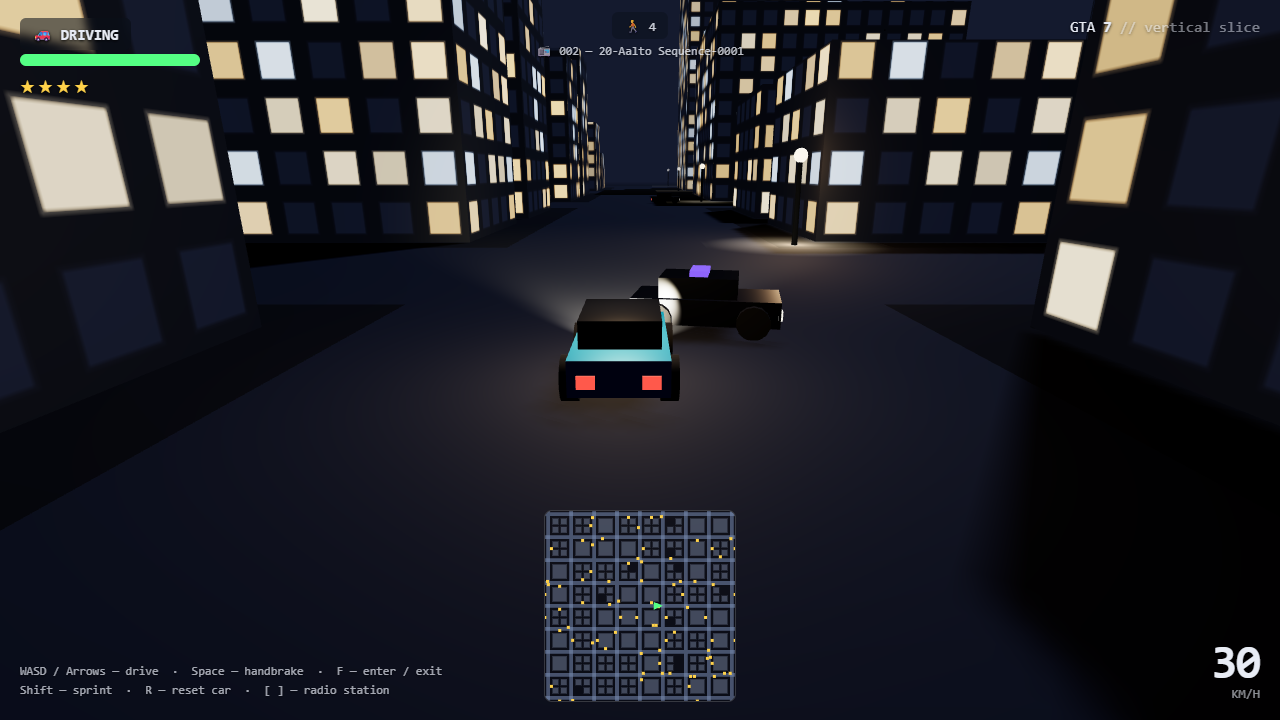
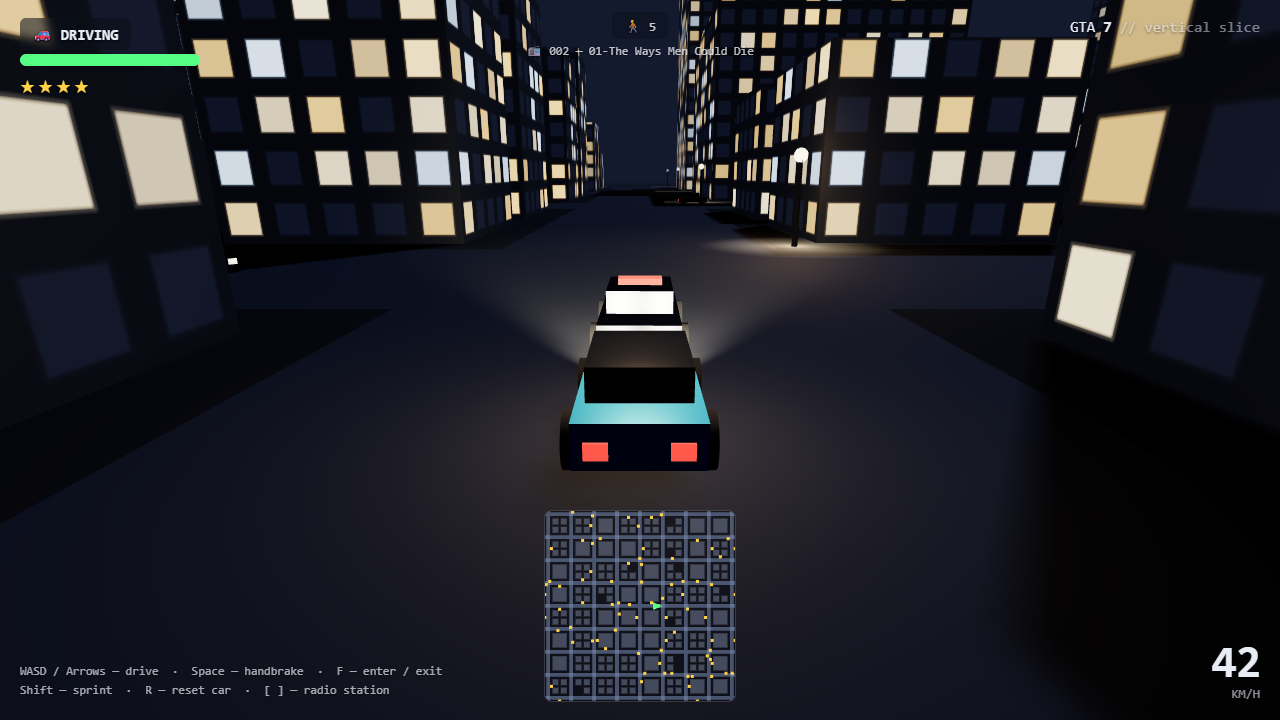
Smarter police (steering behaviors) and pedestrians that flee on foot
Police pursuit reworked from naive straight-line seek into blended Reynolds
steering: interception (lead the player via leadTime, unit-tested), separation
(fan out instead of stacking/shoving), and look-ahead obstacle avoidance (probe
ahead, steer along the wall normal via resolveCircle) so they stop grinding
buildings. They now intercept and surround instead of single-filing. Based on a
researched punch-list (Reynolds steering + GTA wanted model).

Pedestrians panic when the on-foot player gets within FEAR_RADIUS: they turn
and bolt away at a run and tremble (render-only jitter). Passed null while
driving so it's an on-foot-only reaction.

e2e: police fan-out distance + a pedestrian fleeing when approached. 59 unit +
13 interaction + 5 touch checks green.

diff --git a/src/systems/Vehicles.ts b/src/systems/Vehicles.ts
@@ -1,7 +1,7 @@
 import * as THREE from 'three';
 import type { City, Lane } from '../world/City';
 import { createRng } from '../core/rng';
-import { damp, lerp, angleLerp, safeApproachSpeed } from '../core/math';
+import { damp, lerp, angleLerp, safeApproachSpeed, leadTime } from '../core/math';
 import { makeCar } from '../render/Assets';
 import { resolveCircle, circleOverlap, nearestIndex } from './Collision';
 import {
@@ -60,9 +60,16 @@ const PED_REACH = CAR_RADIUS + 0.5; // contact distance for running a pedestrian
 
 const POLICE_COLOR = 0x12131c;
 const POLICE_POOL = 5; // one per wanted star
-const POLICE_SPEED = 27; // faster than traffic, slower than the player's top speed
-const POLICE_ACCEL = 2.4;
+const POLICE_SPEED = 28; // faster than traffic, slower than the player's top speed
+const POLICE_ACCEL = 2.6;
 const POLICE_SPAWN_DIST = 72; // how far from the player a cruiser appears
+// Steering-behavior weights (Reynolds): blended into a desired direction.
+const POLICE_LEAD = 1.2; // s of interception lead, capped
+const POLICE_PURSUE_W = 1.0;
+const POLICE_SEP_RADIUS = 14; // cruisers repel each other within this range
+const POLICE_SEP_W = 1.7; // separation beats pursuit in a scrum, loses in open road
+const POLICE_AVOID_W = 3.0; // avoidance overrides everything so they don't grind walls
+const POLICE_FEELER = CAR_RADIUS + 7; // look-ahead distance for the avoidance probe
 
 export interface PedImpact {
   speed: number; // car speed at the moment of contact (m/s)
@@ -140,7 +147,7 @@ export class Vehicles {
     dt: number,
     input: VehicleInput | null,
     pedestrian: { x: number; z: number } | null = null,
-    chaseTarget: { x: number; z: number } | null = null,
+    chaseTarget: { x: number; z: number; vx?: number; vz?: number } | null = null,
   ): void {
     // Snapshot the pre-step pose so render() can interpolate up to it.
     for (const c of this.cars) {
@@ -165,7 +172,7 @@ export class Vehicles {
       const car = this.cars[i];
       if (!car.active) continue;
       if (car.role === 'ai') this.driveAi(car, city, dt, pedestrian);
-      else if (car.role === 'police') this.drivePolice(car, dt, chaseTarget);
+      else if (car.role === 'police') this.drivePolice(car, city, dt, chaseTarget);
       else this.coast(car, dt);
     }
 
@@ -281,19 +288,73 @@ export class Vehicles {
     if (Math.hypot(car.vx, car.vz) > 0.5) car.heading = Math.atan2(-car.vz, car.vx);
   }
 
-  /** Police seek straight toward the player (building collisions slide them around). */
-  private drivePolice(car: Car, dt: number, target: { x: number; z: number } | null): void {
+  /**
+   * Police steering: a blend of pursuit (lead the player), separation (fan out
+   * instead of stacking), and obstacle avoidance (veer along a wall normal felt
+   * ahead, so they don't grind buildings). Reynolds-style weighted accumulate.
+   */
+  private drivePolice(
+    car: Car,
+    city: City,
+    dt: number,
+    target: { x: number; z: number; vx?: number; vz?: number } | null,
+  ): void {
     if (!target) {
       this.coast(car, dt);
       return;
     }
-    const tx = target.x - car.x;
-    const tz = target.z - car.z;
-    const d = Math.hypot(tx, tz);
-    const desX = d > 1 ? (tx / d) * POLICE_SPEED : 0;
-    const desZ = d > 1 ? (tz / d) * POLICE_SPEED : 0;
-    car.vx = damp(car.vx, desX, POLICE_ACCEL, dt);
-    car.vz = damp(car.vz, desZ, POLICE_ACCEL, dt);
+    const tvx = target.vx ?? 0;
+    const tvz = target.vz ?? 0;
+    const dx = target.x - car.x;
+    const dz = target.z - car.z;
+    const gap = Math.hypot(dx, dz) || 1e-3;
+
+    // Pursuit: aim where the player will be, not where they are.
+    const lead = leadTime(gap, POLICE_SPEED, Math.hypot(tvx, tvz), POLICE_LEAD);
+    let dirX = target.x + tvx * lead - car.x;
+    let dirZ = target.z + tvz * lead - car.z;
+    const pl = Math.hypot(dirX, dirZ) || 1e-3;
+    dirX = (dirX / pl) * POLICE_PURSUE_W;
+    dirZ = (dirZ / pl) * POLICE_PURSUE_W;
+
+    // Separation: pushed away from nearby cruisers, stronger the closer they are.
+    let sx = 0;
+    let sz = 0;
+    for (const o of this.cars) {
+      if (o === car || o.role !== 'police' || !o.active) continue;
+      const ax = car.x - o.x;
+      const az = car.z - o.z;
+      const d = Math.hypot(ax, az);
+      if (d > 1e-3 && d < POLICE_SEP_RADIUS) {
+        sx += ax / (d * d);
+        sz += az / (d * d);
+      }
+    }
+    const sl = Math.hypot(sx, sz);
+    if (sl > 1e-3) {
+      dirX += (sx / sl) * POLICE_SEP_W;
+      dirZ += (sz / sl) * POLICE_SEP_W;
+    }
+
+    // Obstacle avoidance: probe ahead; if it would clip a building, steer along
+    // the push-out normal (reuses the circle/AABB resolver).
+    const sp = Math.hypot(car.vx, car.vz);
+    const hx = sp > 0.5 ? car.vx / sp : dx / gap;
+    const hz = sp > 0.5 ? car.vz / sp : dz / gap;
+    const fx = car.x + hx * POLICE_FEELER;
+    const fz = car.z + hz * POLICE_FEELER;
+    const probe = resolveCircle(fx, fz, CAR_RADIUS, city.colliders);
+    const nx = probe.x - fx;
+    const nz = probe.z - fz;
+    const nl = Math.hypot(nx, nz);
+    if (nl > 1e-3) {
+      dirX += (nx / nl) * POLICE_AVOID_W;
+      dirZ += (nz / nl) * POLICE_AVOID_W;
+    }
+
+    const cl = Math.hypot(dirX, dirZ) || 1e-3;
+    car.vx = damp(car.vx, (dirX / cl) * POLICE_SPEED, POLICE_ACCEL, dt);
+    car.vz = damp(car.vz, (dirZ / cl) * POLICE_SPEED, POLICE_ACCEL, dt);
     car.x += car.vx * dt;
     car.z += car.vz * dt;
     if (Math.hypot(car.vx, car.vz) > 0.5) car.heading = Math.atan2(-car.vz, car.vx);
@@ -431,6 +492,13 @@ export class Vehicles {
   playerLateralSpeed(): number {
     if (this.playerIndex === null) return 0;
     return Math.abs(lateralSpeedOf(this.cars[this.playerIndex]));
+  }
+
+  /** Player car's world velocity (for police interception), or zero on foot. */
+  playerVelocity(): { vx: number; vz: number } {
+    if (this.playerIndex === null) return { vx: 0, vz: 0 };
+    const c = this.cars[this.playerIndex];
+    return { vx: c.vx, vz: c.vz };
   }
 
   positions(): Array<{ x: number; z: number }> {

diff --git a/src/systems/Pedestrians.ts b/src/systems/Pedestrians.ts
@@ -18,6 +18,7 @@ interface Ped {
   speed: number;
   turnTimer: number;
   color: number; // shirt colour, reused for gib cubes
+  scared: boolean; // fleeing the on-foot player (trembles + runs away)
   vx: number; // velocity while shoved
   vz: number;
   vy: number;
@@ -43,6 +44,8 @@ const GIB_SPEED = 9; // m/s (~32 km/h): at/above this they explode; between, jus
 const SHOVE_TIME = 1.6; // seconds knocked over before getting back up
 const GIB_TIME = 3.5; // seconds gibbed before respawning elsewhere
 const GRAVITY = 18;
+const FEAR_RADIUS = 6; // how close the on-foot player must be to scare a pedestrian
+const FLEE_SPEED = 5; // scared pedestrians scurry faster than they stroll
 
 /**
  * Wandering pedestrians with a three-state life: walking, shoved (clipped at
@@ -54,6 +57,7 @@ export class Pedestrians {
   private readonly peds: Ped[] = [];
   private readonly rng: Rng;
   private readonly debris: Debris;
+  private tick = 0; // render-frame counter for the fear tremble
   runOverCount = 0;
 
   constructor(scene: THREE.Scene, private readonly city: City, count = 60, seed = 333) {
@@ -67,7 +71,7 @@ export class Pedestrians {
       const z = this.rng.range(-city.half, city.half);
       const heading = this.rng.range(0, Math.PI * 2);
       this.peds.push({
-        state: 'walk', x, z, y: 0, heading, tumble: 0, color,
+        state: 'walk', x, z, y: 0, heading, tumble: 0, color, scared: false,
         speed: this.rng.range(1, 2.2),
         turnTimer: this.rng.range(1, 5),
         vx: 0, vz: 0, vy: 0, timer: 0,
@@ -77,7 +81,7 @@ export class Pedestrians {
     }
   }
 
-  update(city: City, dt: number, impactAt?: ImpactQuery): void {
+  update(city: City, dt: number, impactAt?: ImpactQuery, threat?: { x: number; z: number } | null): void {
     for (const ped of this.peds) {
       ped.px = ped.x;
       ped.pz = ped.z;
@@ -95,16 +99,35 @@ export class Pedestrians {
         continue;
       }
 
-      ped.turnTimer -= dt;
-      if (ped.turnTimer <= 0) {
-        ped.heading += (Math.sin(ped.x * 12.9 + ped.z * 78.2) * 0.5 + 0.5) * Math.PI - Math.PI / 2;
-        ped.turnTimer = 2 + ((ped.x * 0.37 + ped.z * 0.91) % 3);
+      // Panic if the on-foot player gets close: flee directly away (and tremble,
+      // in render). Otherwise wander.
+      ped.scared = false;
+      if (threat) {
+        const ax = ped.x - threat.x;
+        const az = ped.z - threat.z;
+        const fd = Math.hypot(ax, az);
+        if (fd < FEAR_RADIUS) {
+          ped.scared = true;
+          const ux = fd > 1e-3 ? ax / fd : 1;
+          const uz = fd > 1e-3 ? az / fd : 0;
+          ped.heading = Math.atan2(-uz, ux); // face the way they're bolting
+          ped.x += ux * FLEE_SPEED * dt;
+          ped.z += uz * FLEE_SPEED * dt;
+        }
       }
 
-      const nx = ped.x + Math.cos(ped.heading) * ped.speed * dt;
-      const nz = ped.z - Math.sin(ped.heading) * ped.speed * dt;
-      const fixed = resolveCircle(nx, nz, RADIUS, city.colliders);
-      if (fixed.x !== nx || fixed.z !== nz) ped.heading += Math.PI; // bounced off a wall
+      if (!ped.scared) {
+        ped.turnTimer -= dt;
+        if (ped.turnTimer <= 0) {
+          ped.heading += (Math.sin(ped.x * 12.9 + ped.z * 78.2) * 0.5 + 0.5) * Math.PI - Math.PI / 2;
+          ped.turnTimer = 2 + ((ped.x * 0.37 + ped.z * 0.91) % 3);
+        }
+        ped.x += Math.cos(ped.heading) * ped.speed * dt;
+        ped.z -= Math.sin(ped.heading) * ped.speed * dt;
+      }
+
+      const fixed = resolveCircle(ped.x, ped.z, RADIUS, city.colliders);
+      if (!ped.scared && (fixed.x !== ped.x || fixed.z !== ped.z)) ped.heading += Math.PI; // bounced off a wall
       ped.x = Math.max(-city.half, Math.min(city.half, fixed.x));
       ped.z = Math.max(-city.half, Math.min(city.half, fixed.z));
 
@@ -169,14 +192,24 @@ export class Pedestrians {
 
   /** Position meshes, interpolating between the previous and current step. */
   render(alpha: number): void {
+    this.tick++;
     for (const ped of this.peds) {
       if (ped.state === 'gibbed') continue; // hidden while exploded
+      // A fast little tremble (visual only) while scared.
+      let sx = 0;
+      let sz = 0;
+      let roll = 0;
+      if (ped.scared) {
+        sx = Math.sin(this.tick * 0.8 + ped.z) * 0.05;
+        sz = Math.cos(this.tick * 0.8 + ped.x) * 0.05;
+        roll = Math.sin(this.tick * 1.3 + ped.x) * 0.13;
+      }
       ped.group.position.set(
-        lerp(ped.px, ped.x, alpha),
+        lerp(ped.px, ped.x, alpha) + sx,
         lerp(ped.py, ped.y, alpha),
-        lerp(ped.pz, ped.z, alpha),
+        lerp(ped.pz, ped.z, alpha) + sz,
       );
-      ped.group.rotation.set(lerp(ped.ptumble, ped.tumble, alpha), angleLerp(ped.ph, ped.heading, alpha), 0);
+      ped.group.rotation.set(lerp(ped.ptumble, ped.tumble, alpha), angleLerp(ped.ph, ped.heading, alpha), roll);
     }
     this.debris.render(alpha);
   }

diff --git a/src/main.ts b/src/main.ts
@@ -206,10 +206,19 @@ function respawn(): void {
   player.heading = 0;
 }
 
-/** Active player position the police home in on (the car, or the avatar on foot). */
-function chaseTarget(): { x: number; z: number } {
+/** Active player pose + velocity the police intercept (the car, or the avatar on foot). */
+function chaseTarget(): { x: number; z: number; vx: number; vz: number } {
   const pose = vehicles.playerPose();
-  return mode === 'driving' && pose ? { x: pose.x, z: pose.z } : { x: player.x, z: player.z };
+  if (mode === 'driving' && pose) {
+    const v = vehicles.playerVelocity();
+    return { x: pose.x, z: pose.z, vx: v.vx, vz: v.vz };
+  }
+  return {
+    x: player.x,
+    z: player.z,
+    vx: Math.cos(player.heading) * player.speed,
+    vz: -Math.sin(player.heading) * player.speed,
+  };
 }
 
 /** Crimes raise heat; it cools after a grace period. Heat → wanted stars → police. */
@@ -250,7 +259,7 @@ function update(dt: number): void {
   if (wasted) {
     wastedTimer -= dt;
     vehicles.update(city, dt, null, null);
-    peds.update(city, dt, runOverQuery);
+    peds.update(city, dt, runOverQuery, null);
     if (wastedTimer <= 0) respawn();
     controls.endFrame();
     return;
@@ -280,7 +289,7 @@ function update(dt: number): void {
     }
   }
 
-  peds.update(city, dt, runOverQuery);
+  peds.update(city, dt, runOverQuery, mode === 'foot' ? { x: player.x, z: player.z } : null);
   controls.endFrame();
 }
 

diff --git a/src/core/math.test.ts b/src/core/math.test.ts
@@ -9,6 +9,7 @@ import {
   safeApproachSpeed,
   stickVector,
   starsFromHeat,
+  leadTime,
 } from './math';
 
 describe('clamp', () => {
@@ -69,6 +70,18 @@ describe('starsFromHeat', () => {
     expect(starsFromHeat(20)).toBe(1);
     expect(starsFromHeat(21)).toBe(2);
     expect(starsFromHeat(81)).toBe(5);
+  });
+});
+
+describe('leadTime', () => {
+  it('is capped by maxLead', () => {
+    expect(leadTime(1000, 27, 64, 1.2)).toBe(1.2);
+  });
+  it('shrinks as closing speed grows', () => {
+    expect(leadTime(50, 27, 64, 5)).toBeLessThan(leadTime(50, 27, 0, 5));
+  });
+  it('matches gap / closing speed below the cap', () => {
+    expect(leadTime(40, 10, 10, 5)).toBeCloseTo(2); // 40 / 20
   });
 });
 

diff --git a/src/core/math.ts b/src/core/math.ts
@@ -25,6 +25,14 @@ export const angleLerp = (a: number, b: number, t: number): number => a + angleD
 export const starsFromHeat = (heat: number): number =>
   Math.max(0, Math.min(5, Math.ceil(heat / 20)));
 
+/**
+ * Interception lead time for a pursuer: how far ahead to aim, based on the gap
+ * and the closing speed (pursuer + target speed), capped so a sharp turn
+ * doesn't send the pursuer to fantasy positions. (Reynolds "pursue".)
+ */
+export const leadTime = (gap: number, pursuerSpeed: number, targetSpeed: number, maxLead: number): number =>
+  Math.min(maxLead, gap / Math.max(1e-3, pursuerSpeed + targetSpeed));
+
 export const moveToward = (current: number, target: number, maxDelta: number): number => {
   const diff = target - current;
   if (Math.abs(diff) <= maxDelta) return target;

diff --git a/README.md b/README.md
@@ -20,7 +20,8 @@
 - **Traffic that brakes for you… mostly** — stand in the road and oncoming cars slow and stop; dart out from inside their stopping distance and they can't help it. Get hit and you lose health; run out and it's **WASTED**, then you respawn.
 - **Run people over** — flatten a pedestrian at speed and they burst into a shower of little cubes; your tally shows on the HUD. (Ambient traffic is lethal too, but only your kills count.)
 - **Ambient life** — traffic looping the avenues and pedestrians milling the streets.
-- **Wanted level & police chase** — run people over and your heat climbs into a ★–★★★★★ wanted rating; every star puts another cop car on your tail (flashing lights and all). Getting WASTED clears it.
+- **Wanted level & police chase** — run people over and your heat climbs into a ★–★★★★★ wanted rating; every star puts another cop car on your tail (flashing lights and all). They use steering-behavior AI — they lead/intercept you, fan out instead of stacking up, and veer around buildings. Getting WASTED clears it.
+- **Pedestrians react** — get close on foot and they panic: trembling and bolting away from you.
 - **Synthesized sound** — an engine note that tracks your speed, tyre screech when you drift, a crunch when you gib someone, and door blips getting in/out — all generated in-browser, no audio files.
 - **Car radio** — 7 stations of original music streamed from a CDN (never bundled); tune with `[` / `]`. Every car drops you into the middle of a track like a live broadcast, and the next song is prefetched while the current one plays.
 - **Plays on mobile** — keyboard on desktop, an on-screen analog joystick + action buttons on touch devices (auto-detected), with quality scaled down for phone GPUs.
@@ -83,7 +84,8 @@ This whole thing is a community-driven dare, built live from requests. Credit wh
 - **Reverse-steering sanity check** — u/Marathon2021 (verified: it's realistic rear-steer, now locked by a test)
 - **Radio stations** — u/aweh_sassy
 - **Police chasing you** — u/c0desurfer (*"Didn't even implement police chasing me. Boring 😄"*)
-- **Sound effects** — u/daemon-electricity
+- **Sound effects, smarter police, radio shuffle** — u/daemon-electricity
+- **Pedestrians fleeing in fear on foot** — u/This-Shape2193
 
 🎵 All radio music is by **Daemon Electricity** — [SoundCloud](https://soundcloud.com/daemonelectricity), and also on Spotify, Apple Music, Amazon, Deezer, Tidal, and most platforms. The tracks stream from a [GitHub Release](https://github.com/depixeled-chris/gta7/releases/tag/radio-v1) rather than being bundled into the site.
 

diff --git a/CLAUDE.md b/CLAUDE.md
@@ -46,7 +46,8 @@ The codebase is split along one hard line: **the simulation core is pure and Thr
 - `src/ui/HUD.ts` — DOM overlay: speedometer, mode, health bar, run-over counter, radio readout, WASTED screen, live minimap (a `touch` flag repacks it for small screens). `src/ui/TouchControls.ts` — on-screen joystick + action buttons for touch devices.
 - `src/audio/Radio.ts` — runtime radio: one streaming `<audio>` element driven by `RadioModel`. Plays only in a car; entering one drops you onto a random track at a random offset (live-broadcast feel); the next track is prefetched via `<link rel=prefetch>`. Bounded retry on load error so a network outage can't spin the tuner.
 - `src/audio/Sfx.ts` — synthesized sound effects via Web Audio (no files): speed-tracking engine drone, tyre screech (filtered noise), gib crunch, enter/exit blips. Context created/resumed on first gesture.
-- Police live in `Vehicles` as a pooled `role: 'police'` (idle off-map, `active` toggled by `setWanted`). They seek the chase target each step; flashing light bars are toggled in `render`.
+- Police live in `Vehicles` as a pooled `role: 'police'` (idle off-map, `active` toggled by `setWanted`). `drivePolice` blends Reynolds steering behaviors — pursuit/interception (`leadTime`), separation (anti-stacking), and obstacle avoidance (a look-ahead probe through `resolveCircle`) — into a desired direction; flashing light bars toggle in `render`.
+- Pedestrians flee the on-foot player: `Pedestrians.update` takes a `threat` position; within `FEAR_RADIUS` a ped turns to face away, runs at `FLEE_SPEED`, and trembles (a render-only jitter). Passed `null` while driving.
 - `src/main.ts` — the orchestrator: builds the world, owns the driving↔on-foot state machine, the player health / WASTED / respawn cycle, runs the loop, applies collision, drives the camera, and manages the dynamic light pool + headlights.
 
 ### Conventions and invariants (read before editing sim code)